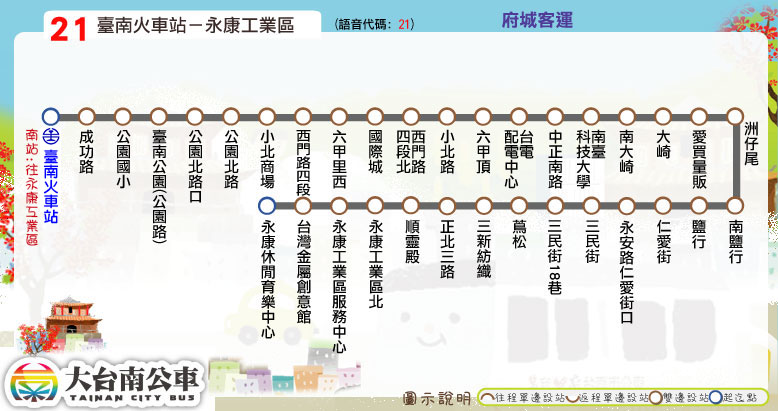
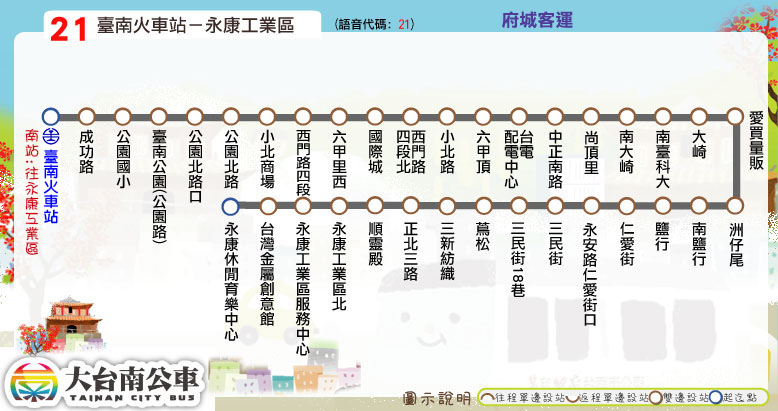
站點更名：橘12、5、21(南台科技大學->尚頂里)；另21路繞駛南台科大後門，新增站點「南臺科大」

diff --git a/route/fare_and_time/city_bus_21.js b/route/fare_and_time/city_bus_21.js
@@ -1,8 +1,8 @@
 // format = [time at the start stop] or
 // [time, other] or
 // [time, start_stop, end_stop, other]
-city_bus_21_main_stop_name = ["臺南<br />火車站","臺南公園<br />(公園路)","西門路<br />四段","六甲頂","南台<br />科技大學","鹽行","仁愛街","蔦松","永康工業區<br />服務中心","永康休閒<br />育樂中心"];
-city_bus_21_main_stop_time_consume = [0, 5, 9, 15, 18, 25, 28, 33, 42, 45];
+city_bus_21_main_stop_name = ["臺南<br />火車站","臺南公園<br />(公園路)","西門路<br />四段","六甲頂","南臺<br />科大","鹽行","仁愛街","蔦松","永康工業區<br />服務中心","永康休閒<br />育樂中心"];
+city_bus_21_main_stop_time_consume = [0, 5, 9, 15, 20, 27, 30, 35, 42, 45];
 city_bus_21_important_stop = [0, 5, 9]; // 臺南火車站, 鹽行, 永康休閒娛樂中心
 city_bus_21_time_go = [["06:00"],["06:25"],["06:50"],["07:20"],["07:55"],["08:25"],["08:50"],["09:20"],["09:55"],["10:30"],
 ["11:15"],["12:00"],["12:25"],["13:00"],["13:35"],["14:15"],["15:05"],["15:35"],["16:00"],["16:30"],["17:15"],["17:50"],

diff --git a/route/fare_and_time/city_bus_5.js b/route/fare_and_time/city_bus_5.js
@@ -1,7 +1,7 @@
 // format = [time at the start stop] or
 // [time, other] or
 // [time, start_stop, end_stop, other]
-city_bus_5_main_stop_name = ["桂田<br />酒店","鹽行","南臺<br />科大","奇美<br />醫院","崑山<br />中學","臺南<br />火車站","赤崁樓","新光三越<br />新天地","大林<br />新城","市立<br />醫院","臺南<br />航空站","嘉南<br />藥理大學","大甲里"];
+city_bus_5_main_stop_name = ["桂田<br />酒店","鹽行","尚頂里","奇美<br />醫院","崑山<br />中學","臺南<br />火車站","赤崁樓","新光三越<br />新天地","大林<br />新城","市立<br />醫院","臺南<br />航空站","嘉南<br />藥理大學","大甲里"];
 city_bus_5_main_stop_time_consume = [0, 5, 10, 13, 20, 30, 35, 45, 55, 65, 67, 70, 75];
 city_bus_5_important_stop = [0, 1, 3, 5, 9, 11]; // 桂田酒店, 鹽行, 奇美醫院, 臺南火車站, 市立醫院, 嘉南藥理大學
 stop_start = 0; // 桂田酒店

diff --git a/route/fare_and_time/orange_12.js b/route/fare_and_time/orange_12.js
@@ -12,8 +12,8 @@ orange_12_interval_stop = [
 ["新市火車站","新市火車站(省道)"], // 新市火車站
 ["車行"], // 車行
 ["統一馬口鐵","三新紡織","蔦松"], // 蔦松
-["竹林里","鹽行","南鹽行","洲子尾","大崎"], // 鹽行
-["南臺科技大學","臺電配電中心"], // 南臺科大
+["竹林里","鹽行","南鹽行","洲仔尾","大崎"], // 鹽行
+["尚頂里","臺電配電中心"], // 南臺科大
 ["奇美醫院","大橋","臺南高工"], // 奇美醫院
 ["中華、振興路口","中華、中華二路口","中華路、勝華街口","兵仔市","四份子"], // 兵仔市
 ["光明街口","無障礙福利之家","成大醫院","成功大學","臺南公園(北門路)","臺南火車站","臺南公園(公園路)"] // 臺南
